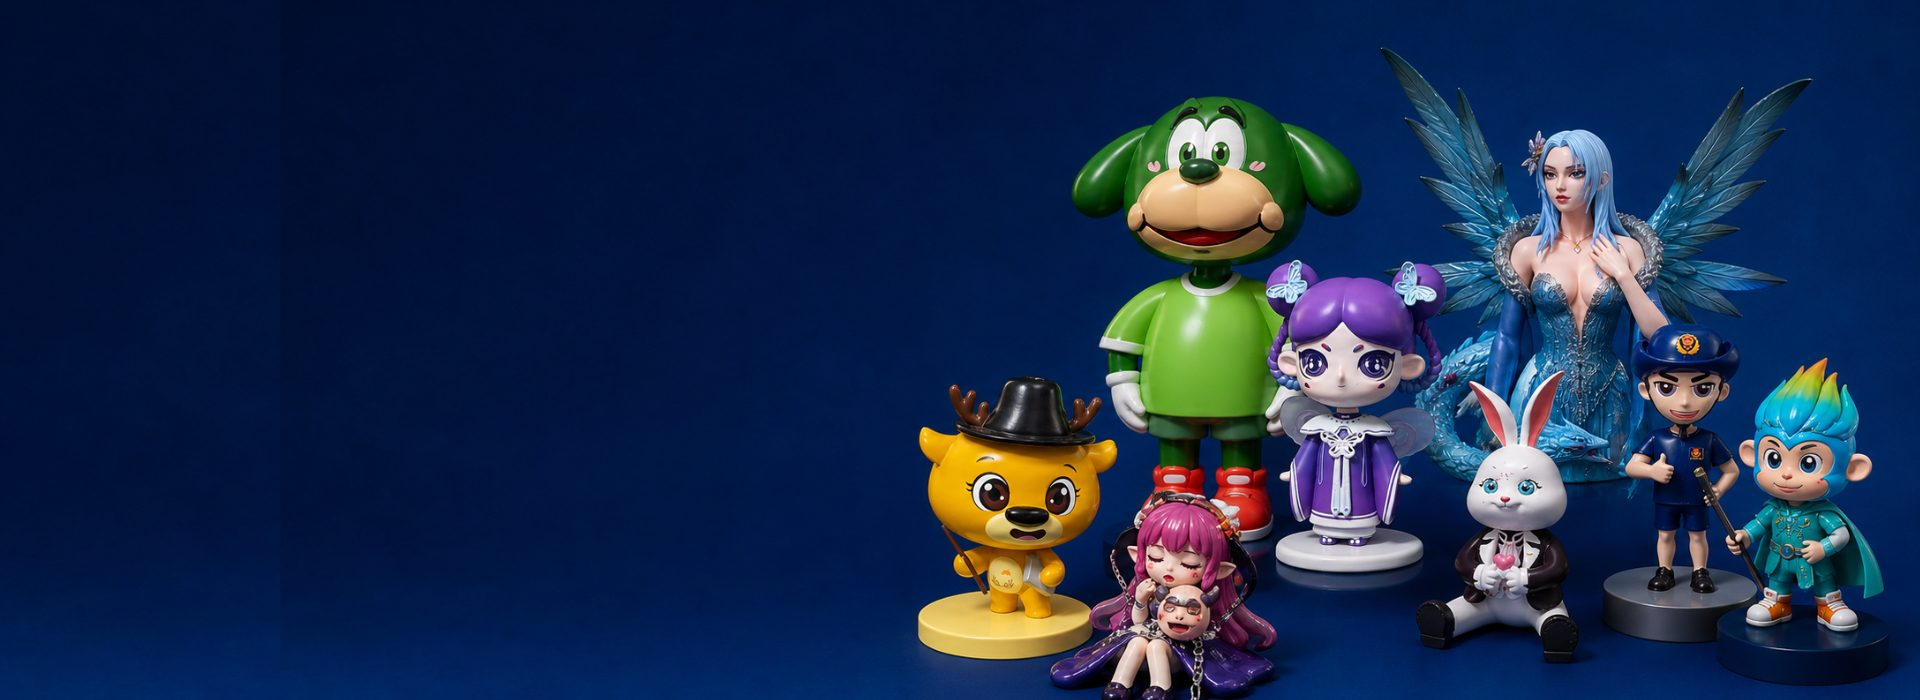
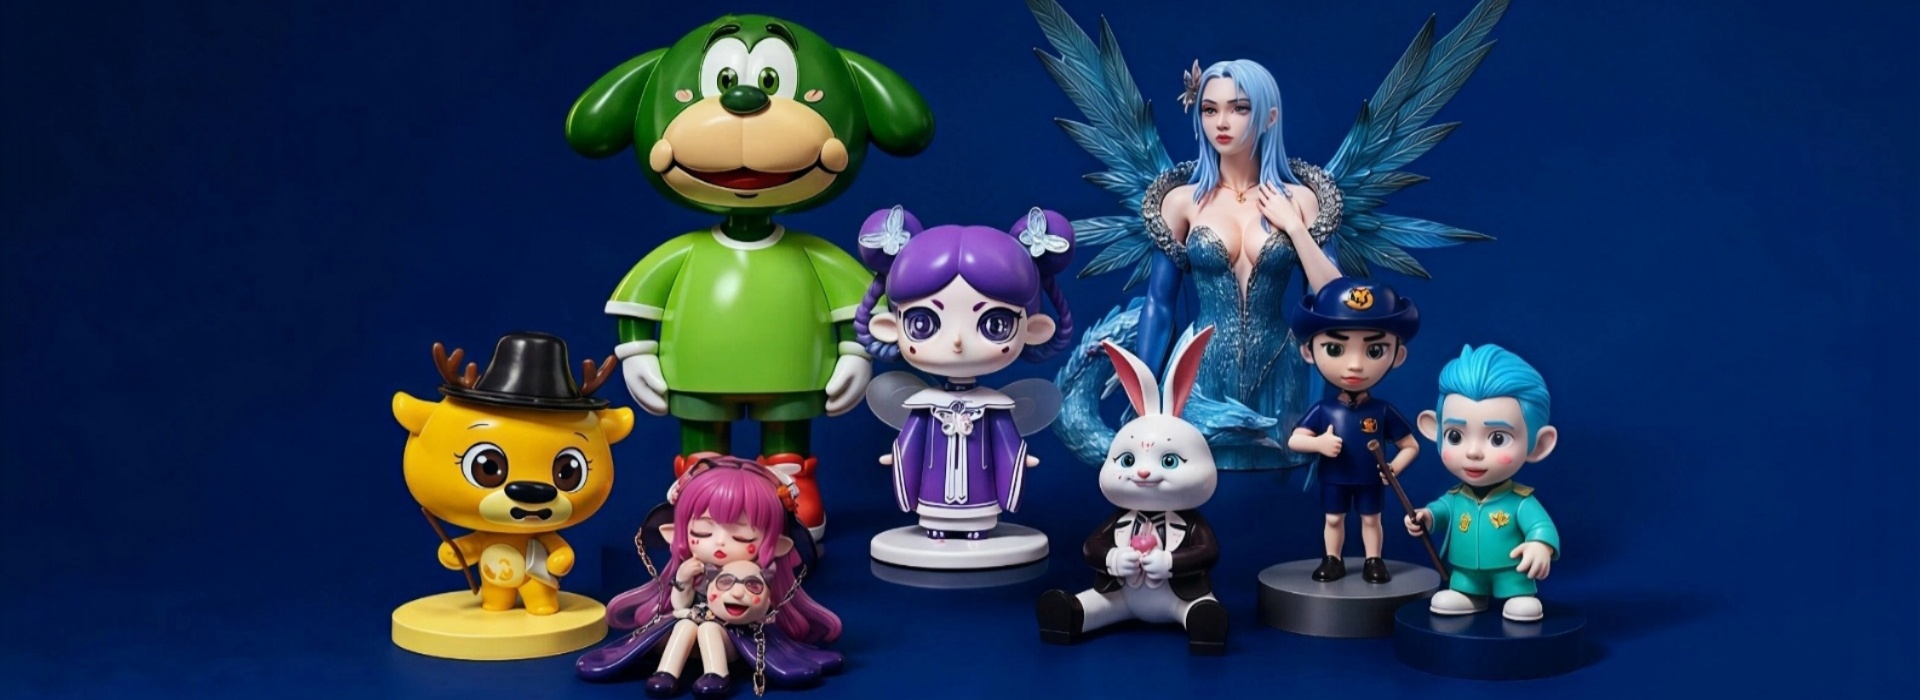
Replace hero images with centered content and restore object-cover

diff --git a/components/HeroCarousel.tsx b/components/HeroCarousel.tsx
@@ -29,7 +29,7 @@ export default function HeroCarousel({ dict, lang }: Props) {
         >
           {dict.slides.map((s, i) => (
             <div key={i} className="relative w-full h-full shrink-0">
-              <Image src={IMAGES[i] ?? IMAGES[0]} alt={s.alt} fill priority={i === 0} sizes="100vw" className="object-contain" />
+              <Image src={IMAGES[i] ?? IMAGES[0]} alt={s.alt} fill priority={i === 0} sizes="100vw" className="object-cover object-center" />
             </div>
           ))}
         </div>
